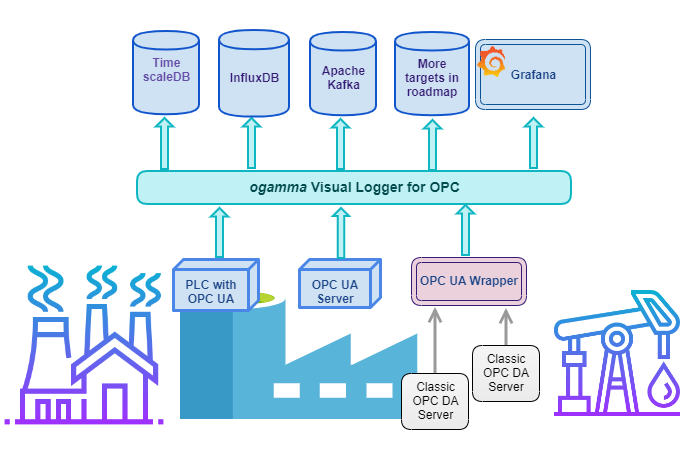
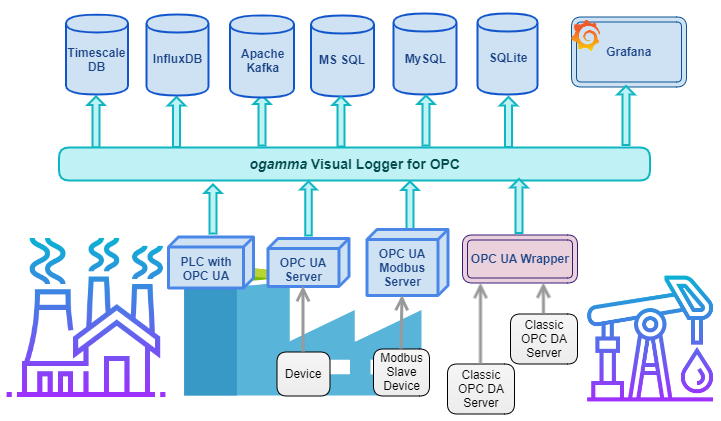
Release notes and context diagram updated to version 1.1.0.

diff --git a/ReleaseNotes.md b/ReleaseNotes.md
@@ -5,9 +5,20 @@ Known issues.
 2. When ``Refresh Data`` field in the ``Logged Variables`` table is set to automatic refresh mode, it is not possible to edit records in that table. Workaround is to turn data refreshing off before editing of records.
 3. Table ``Logged Variables`` has too many columns and not all of them fit well into the screen, and horizontal scrolling is not available, which causes problem viewing/editing them. Workaround: use ``Column Chooser`` button in the right top corner of the table and select columns which need to be visible or hidden (usually not all columns need to be visible).
 4. When OPC UA Server connection settings or logged variables settings are changed, in order to apply them, connections to all OPC UA Servers are closed and re-opened, subscriptions and monitored items are re-created. When an application instance has large number of server connections and logged variables, this might be inconvenient.
+5. When communication with the time-series database is slow or broken, and there are Grafana sessions querying data via *ogamma* Visual Logger's REST endpoint, this can cause issues with configuration GUI responsiveness. As a workaround, separate instance can be created to serve REST endpoint, or number of threads in the same instance can be increased (option ``Web Server Settings / Number of threads`` in the ``Instance Settings`` dialog window).
 
 Release History.
 ================
+
+Version 1.1.0 2020-Jun-06
+-------------------------
+
+* Added support to store data in Microsoft SQL as a time-series database.
+* Added support to store data in MySQL as a time-series database.
+* Added support to store data in SQLite as a time-series database.
+* Default configuration database type and time-series database type in all distribution packages (Windows, Ubuntu, Docker) is set to SQLite type, so the instance is ready to use immediately without installing of additional database components.
+* Improved handling of connection interruptions with the time-series database of PostgreSQL/TimescaleDB type.
+* Fixed bug: in the case when a time-series database type is PostgreSQL, data values are written twice (was introduced in version 0.8.1).
 
 Version 1.0.1 2020-May-13
 -------------------------
@@ -20,7 +31,7 @@ Version 1.0.1 2020-May-13
 * Fixed issue: writing values to TimescaleDB/PostgreSQL or Apache Kafka might fail if data value has source timestamp not set or status code is bad.
 * Licensing conditions for Community Edition changed: 
   * now on instances of the application which are activated after May 14, 2020 maximum number of logged variables is reduced to 64 after end of 1 month trial period. Existing installations activated before May 14, 2020 have limit as it was before: up to 256 variables.
-  * periodic license validation with connection to the license server over the Internet is required. 
+  * periodic license validation with connection to the license server over the Internet is required. The date when the license was last time validated and the date before which the next validation should be performed are displayed in the dialog window opened via menu License / Status.
  
 
 Version 1.0.0 2020-Apr-29
